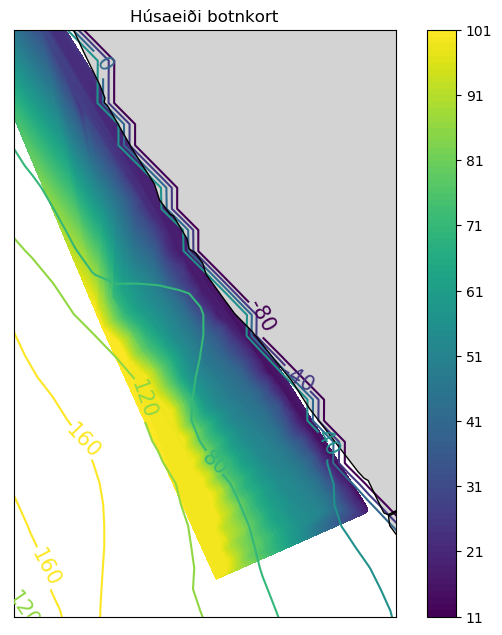
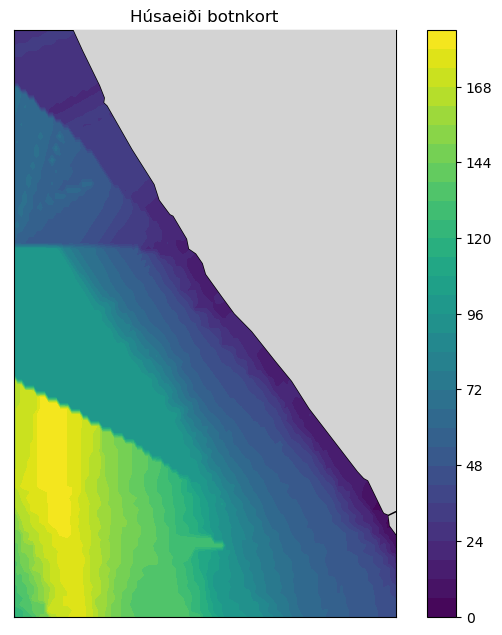
Meira ting

diff --git a/Processing/tekna_kort.py b/Processing/tekna_kort.py
@@ -87,6 +87,9 @@ def les_og_tekna(text, fig, canvas):
     dybdarlinjur = False
     filnavn = 'test'
     landlitur = 'lightgray'
+    btn_interpolation = 'nearest'
+    btn_track = False
+    btn_gridsize = 1000
     for command in text:
         if "=" in command:
             toindex = command.find('=')+1
@@ -127,32 +130,37 @@ def les_og_tekna(text, fig, canvas):
                 btn_lat = csvData['lat']
                 dypid = csvData['d']
                 btn_x, btn_y = m(btn_lon.values, btn_lat.values)
-                btn_x1, btn_y1 = np.meshgrid(btn_x, btn_y)
+                #btn_x1, btn_y1 = np.meshgrid(btn_x, btn_y)
 
-                meshgridy = np.linspace(latmin, latmax, len(dypid)/1)
-                meshgridx = np.linspace(lonmin, lonmax, len(dypid)/1)
+                meshgridy = np.linspace(latmin, latmax, btn_gridsize)
+                meshgridx = np.linspace(lonmin, lonmax, btn_gridsize)
+                print('Gridsize =' + str(btn_gridsize))
                 meshgridx, meshgridy = m(meshgridx, meshgridy)
                 meshgridx, meshgridy = np.meshgrid(meshgridx, meshgridy)
-                print(meshgridy)
-                print(btn_y)
 
                 #ax.scatter(meshgridx, meshgridy, s=1)
-                #ax.scatter(btn_x, btn_y, s=1, zorder=100, color='red')
+                if btn_track:
+                    ax.scatter(btn_x, btn_y, s=0.1, zorder=100, color='black')
                 #grid_x, grid_y = np.mgrid[np.linspace(latmin, latmax, num=7312), np.linspace(lonmin, lonmax, num=7312)]
                 #grid_x, grid_y = np.meshgrid(np.linspace(latmin, latmax, num=7312), np.linspace(lonmin, lonmax, num=7312))
-                grid_z0 = griddata((btn_x, btn_y), dypid.values, (meshgridx, meshgridy), method='linear')
-                print(grid_z0)
-                #grid_z0 = griddata((btn_x, btn_y), dypid.values, (btn_x1, btn_y1), method='nearest')
+                #grid_z0 = griddata((btn_x, btn_y), dypid.values, (meshgridx, meshgridy), method='linear')
+                #print(grid_z0)
+                grid_z0 = griddata((btn_x, btn_y), dypid.values, (meshgridx, meshgridy), method=btn_interpolation)
                 #plt.contour(meshgridx, meshgridy, grid_z0)
-                c = m.contourf(meshgridx, meshgridy, grid_z0, 100, ax=ax)  # Um kodan kiksar her broyt basemap fílin til // har feilurin peikar
-                fig.colorbar(c)
                 #ax.clabel(c, inline=1, fontsize=15, fmt='%2.0f')
+            elif variable == 'btn_interpolation':
+                btn_interpolation = command[toindex::]
+            elif variable ==  'btn_track':
+                if command[toindex::] == 'True':
+                    btn_track = True
+            elif variable == 'btn_gridsize':
+                btn_gridsize = command[toindex::]
 
         else:
             if command == 'clf':
                 fig.clf()
                 ax = fig.add_subplot(111)
-            if command == 'Tekna kort':
+            elif command == 'Tekna kort':
                 m = Basemap(projection='merc', resolution=None,
                             llcrnrlat=latmin, urcrnrlat=latmax,
                             llcrnrlon=lonmin, urcrnrlon=lonmax, ax=ax)
@@ -160,7 +168,13 @@ def les_og_tekna(text, fig, canvas):
                     lo, aa, la = np.genfromtxt('Kort_Data/Coasts/' + island, delimiter=' ').T
                     xpt, ypt = m(lo, la)
                     m.plot(xpt, ypt, 'k', linewidth=1)
-                    ax.fill(xpt, ypt, landlitur)
+                    ax.fill(xpt, ypt, landlitur, zorder=100)
+            elif command == 'btn_contourf':
+                c = m.contourf(meshgridx, meshgridy, grid_z0, 30, ax=ax)  # Um kodan kiksar her broyt basemap fílin til // har feilurin peikar
+                fig.colorbar(c)
+            elif command == 'btn_contour':
+                c = m.contour(meshgridx, meshgridy, grid_z0, 30, ax=ax)  # Um kodan kiksar her broyt basemap fílin til // har feilurin peikar
+                fig.colorbar(c)
 
     fig.savefig(filnavn + '.png', dpi=int(dpi), bbox_inches='tight')
 
